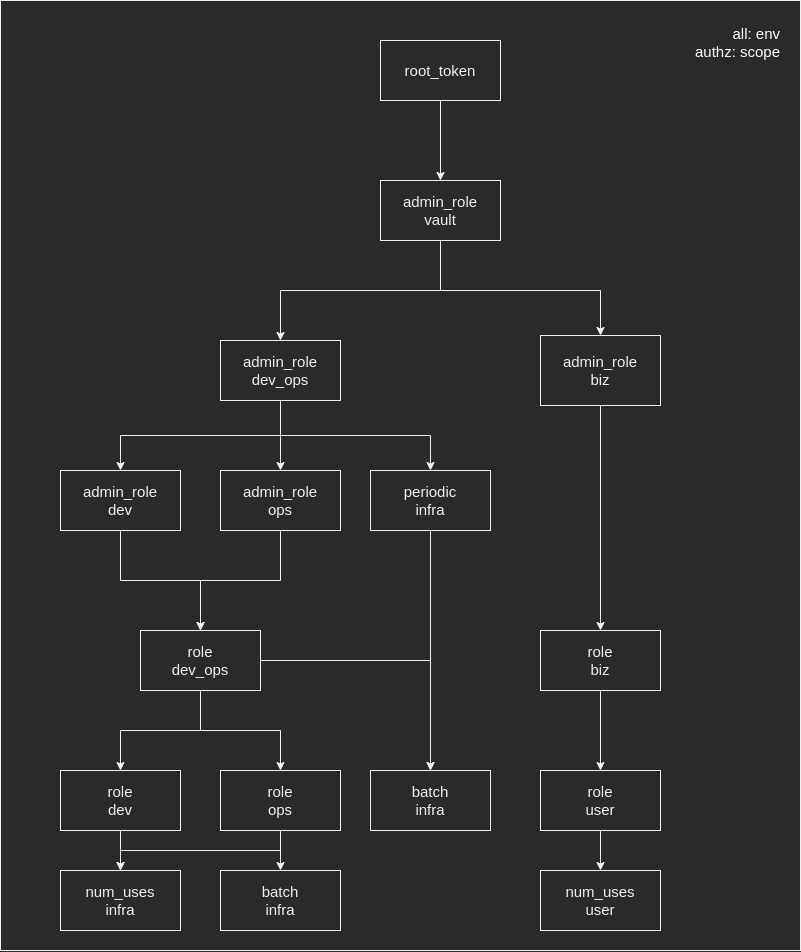
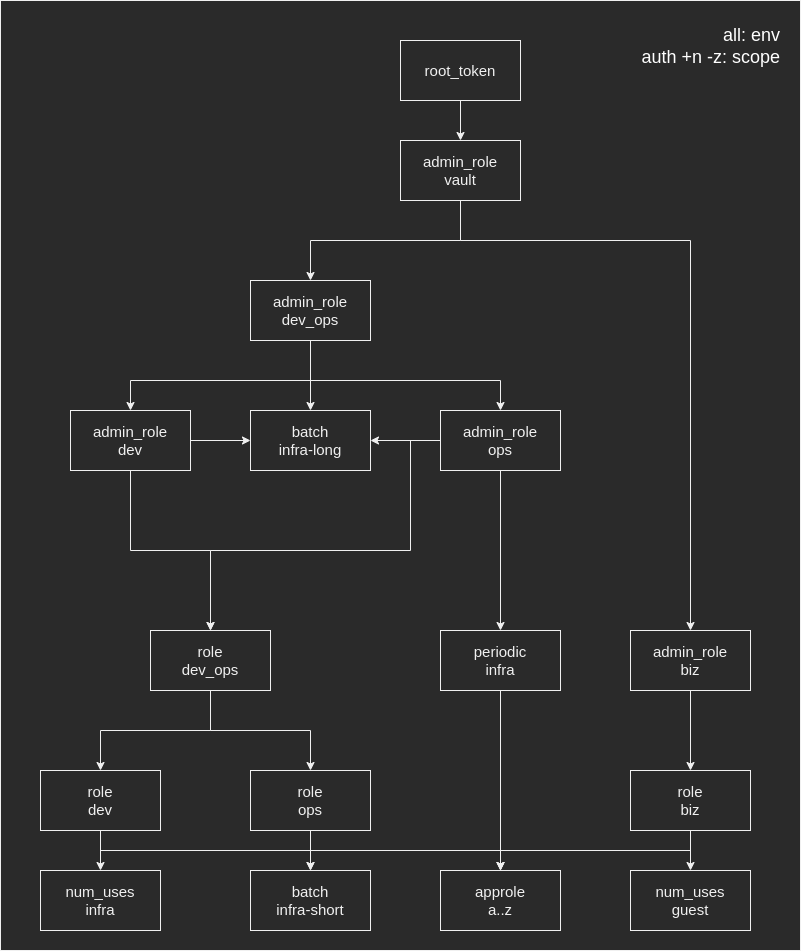
nomad: switching to consul workstream (#18)
* update role hierarchy

* update role hierarchy

* update role hierarchy

* update role hierarchy

* update role hairerchy

* update role hierarchy

* update role hierarchy

* update role hierarchy

* make vault docs a bit more clearer

* clean up vault docs

* update nomad docs

* switching to consul workstream

diff --git a/vault/README.md b/vault/README.md
@@ -440,45 +440,47 @@ SECRET_ENGINE_DIR=$VAULT_INSTANCE_SRC_DIR/config/003-000-secret-engine-init
 TOKEN_INIT_DIR=$VAULT_INSTANCE_SRC_DIR/config/004-000-token-init
 SECRET_DATA_INIT_DIR=$VAULT_INSTANCE_SRC_DIR/config/005-000-secret-data-init
 
+
+# env vars for vault & script.vault.sh
 export JAIL="$(pwd)/secrets/dev/apps/vault"
 export VAULT_ADDR="https://${VAULT_DOMAIN_AND_PORT}"
 export NIRV_SCRIPT_DEBUG=0
 
 
+# stop all running containers
 cd $CORE_SERVICE_DIR_NAME
 if [ "$?" -gt 0 ]; then
   echo -e "\n\nyou executed this script in the wrong directory"
   echo -e "could not cd into $CORE_SERVICE_DIR_NAME"
   return 1 2>/dev/null
 fi;
-
 docker compose down
 
 
-# default: wipe all containers, images and volumes
-# then recreate everything as if its the first time
-sudo rm -rf $VAULT_INSTANCE_SRC_DIR/data/*
+# resync vault instance configs
 rsync -a --delete $REPO_CONFIG_VAULT_PATH $VAULT_INSTANCE_SRC_DIR/config
-# this will start $CORE_SERVICE_DIR_NAME/compose.yaml
+
+########## START: vault boot type
+########## how are you booting your devstack?
+
+## default: wipe all containers, images and volumes
+## then recreate everything as if its the first time
+sudo rm -rf $VAULT_INSTANCE_SRC_DIR/data/*
 script.reset.compose.sh
 
-# alternative 1: only wipe specific services
-## sudo rm -rf $VAULT_INSTANCE_SRC_DIR/data/*
-## rsync -a --delete $REPO_CONFIG_VAULT_PATH $VAULT_INSTANCE_SRC_DIR/config
-## script.reset.compose.sh core_proxy 1
-## script.reset.compose.sh core_postgres 1
-## script.reset.compose.sh core_vault 1
+## alternative 1: only wipe vault & required services
+# sudo rm -rf $VAULT_INSTANCE_SRC_DIR/data/*
+# script.reset.compose.sh core_proxy 1
+# script.reset.compose.sh core_postgres 1
+# script.reset.compose.sh core_vault 1
 
-# alternative 2: simple restart of specific service(s)
-## script.refresh.compose.sh core_proxy
-## script.refresh.compose.sh core_postgres
-## script.refresh.compose.sh core_vault
 
+## DEFAULT & ALTERNATIVE 1
+## require vault to be initialized
 export VAULT_TOKEN='initilize vault with root pgp key'
 script.vault.sh init
 
-
-# skip this section if admin token has already been created
+## require admin token to be created
 export VAULT_TOKEN=$(cat $JAIL/root.unseal.json \
   | jq -r '.root_token' \
   | base64 --decode \
@@ -488,9 +490,23 @@ script.vault.sh unseal
 script.vault.sh create poly $ADMIN_POLICY_CONFIG
 script.vault.sh create token child $ADMIN_TOKEN_CONFIG > $JAIL/admin_vault.json
 
+## alternative 2a: reboot your entire stack
+# script.refresh.compose
 
+## alternative 2b: reboot vault & required services only
+# script.refresh.compose.sh core_proxy
+# script.refresh.compose.sh core_postgres
+# script.refresh.compose.sh core_vault
+
+########## your devstack is now running!
+########## STOP: vault init type
+
+
+## login as admin token & unseal vault
 export VAULT_TOKEN="$(cat $JAIL/$USE_VAULT_TOKEN.json | jq -r '.auth.client_token')"
 script.vault.sh unseal
+
+## (re)sync vault data if changed/starting from scratch
 script.vault.sh process policy_in_dir $POLICY_DIR
 script.vault.sh process token_role_in_dir $TOKEN_ROLE_DIR
 script.vault.sh process enable_feature $FEATURE_DIR
@@ -505,7 +521,7 @@ script.vault.sh process secret_data_in_dir $SECRET_DATA_INIT_DIR
 # script.vault.sh get_unseal_tokens
 
 # via cli
-## validate vault & admin token
+## validate vault & admin token status
 script.vault.sh get status
 script.vault.sh get token self
 script.vault.sh get_unseal_tokens

diff --git a/nomad/README.md b/nomad/README.md
@@ -91,7 +91,7 @@ docker compose down
 ### INTERFACE
 
 ```sh
-########### cd ./apps/nirvai-core-nomad/dev
+########### cd apps/nirvai-core-nomad/dev
 
 NOMAD_ADDR_SUBD=dev
 NOMAD_ADDR_HOST=nirv.ai
@@ -106,16 +106,18 @@ NOMAD_CLIENT_KEY=./tls/cli-key.pem
 ### start nomad server and client agents
 
 ```sh
-########### cd ./apps/nirvai-core-nomad/dev
+########### cd apps/nirvai-core-nomad/dev
 # start server agent in bg
 script.nmd.sh start s -config=development.server.nomad
 
 # start client agent in bg
 script.nmd.sh start c -config=development.client.nomad
 
-# check the team status
-script.nmd.sh get status team
+# check the server status
+script.nmd.sh get status servers
 
+# check the client status
+script.nmd.sh get status clients
 # open the Nomad UI: https://mad.nirv.ai:4646
 ```
 
@@ -138,7 +140,7 @@ script.nmd.sh dockerlogs
 # on error run
 script.nmd.sh get status job jobName # includes all allocationIds
 script.nmd.sh get status loc allocationId # in event of deployment failure
-script.nmd.sh get status node # see client nodes and there ids
+script.nmd.sh get status clients # see client nodes and there ids
 script.nmd.sh dockerlogs # following docker logs of all running containers
 nomad alloc exec -i -t -task sidekiq fa2b2ed6 /bin/bash # todo,
 nomad alloc exec -i -t -task puma fa2b2ed6 /bin/bash -c "bundle exec rails c" #todo
@@ -152,40 +154,8 @@ script.nmd.sh rm dev_core
 kill_service_by_name nomad
 
 # reset nomad to a green state if you dont plan on using it later
-nomad system gc
+script.nmd.sh gc
 ```
-
-### run e2e tests against deployed services
-
-- TODO: still havent setup playwright
-
-### Request PR review
-
-- a successful merge to develop will trigger the CD pipeline
-  - each env consists of obfuscation and validation
-- test.nirv.ai
-  - service specific integration tests
-  - e2e tests
-  - first round of penetration tests
-  - first round of obfuscation
-  - CD to stage
-- stage.nirv.ai:
-  - service specific integration tests
-  - e2e tests
-  - second round of penetration tests
-  - second round of obfuscation
-  - first round of load testing: establish the load at which SLAs are breached
-  - CD to demo
-- demo.nirv.ai
-  - service specific integration tests
-  - e2e tests
-  - third round of penetration tests
-  - third round of obfuscation
-  - second round of load testing: establish the load at which services fail
-  - prod sign off
-  - manual trigger of prod deployment
-- nirv.ai
-  - party time
 
 ## next steps
 
